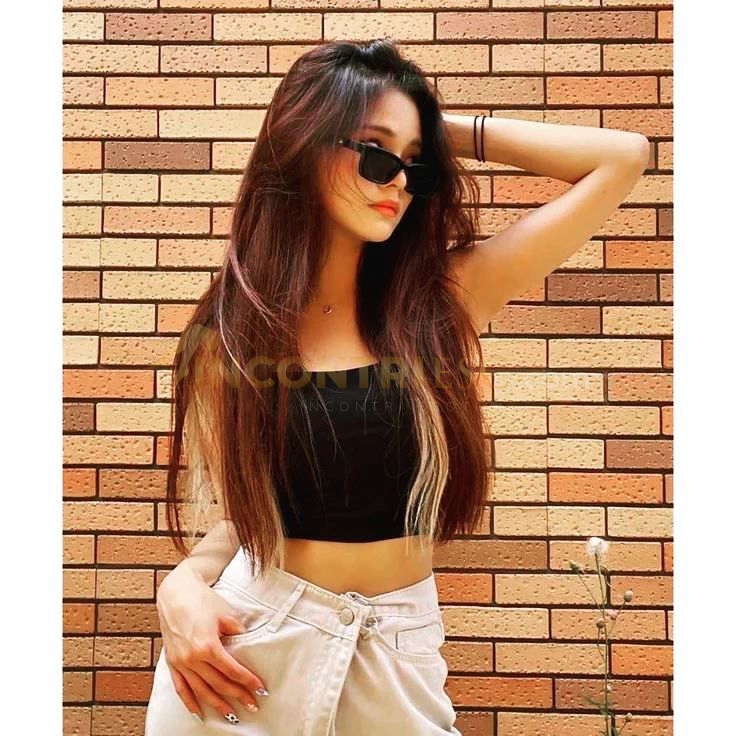
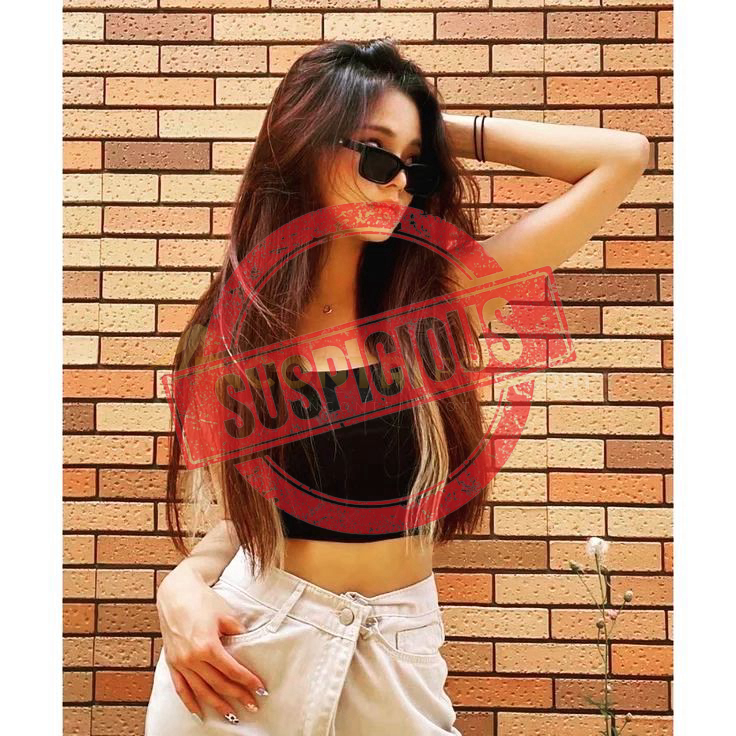
update fake photo controllers

Changed region(s): [[0.2188, 0.25, 0.7812, 0.75]]

diff --git a/controller/fakeController.js b/controller/fakeController.js
@@ -1,5 +1,7 @@
+const { EscortProfile } = require("../models/escort.model");
 const FakePhoto = require("../models/fakePhoto.model"); // Replace with the correct path to your model file
-
+const watermark2 = require("jimp-watermark");
+const fs = require("fs");
 // Controller function to add a new fakePhoto entry
 exports.addFakePhoto = async (req, res) => {
   const { name, email, username, comment } = req.body;
@@ -32,7 +34,42 @@ exports.addFakePhoto = async (req, res) => {
 // Controller function to get all fakePhoto with limit, offset, and search
 exports.getAllFakePhotos = async (req, res) => {
   const { limit, offset, search } = req.query;
-  const query = {};
+  const query = { suspicious: true };
+
+  // Apply search functionality if the "search" query parameter is provided
+  if (search) {
+    const searchRegex = new RegExp(search, "i"); // Case-insensitive search regex
+    query.$or = [
+      { name: searchRegex },
+      { reporterName: searchRegex },
+      { email: searchRegex },
+      { reporterEmail: searchRegex },
+      { username: searchRegex },
+      { reporterUsername: searchRegex },
+    ];
+  }
+
+  try {
+    const totalCount = await FakePhoto.countDocuments(query);
+    console.log("query", query);
+    const fakePhotos = await FakePhoto.find(query)
+      .limit(parseInt(limit) || 20) // Default limit is 10 if not provided or not a valid number
+      .skip(parseInt(offset) || 0); // Default offset is 0 if not provided or not a valid number
+    // .exec();
+
+    res.status(200).json({
+      fakePhotos,
+      totalCount,
+      count: fakePhotos.length,
+    });
+  } catch (error) {
+    console.error("Error fetching fakePhotos:", error);
+    res.status(500).json({ error: "Failed to fetch fakePhotos" });
+  }
+};
+exports.getAllPendingFakePhotos = async (req, res) => {
+  const { limit, offset, search } = req.query;
+  const query = { suspicious: false };
 
   // Apply search functionality if the "search" query parameter is provided
   if (search) {
@@ -62,6 +99,65 @@ exports.getAllFakePhotos = async (req, res) => {
     });
   } catch (error) {
     console.error("Error fetching fakePhotos:", error);
-    res.status(500).json({ error: "Failed to fetch fakePhotos" });
+    res.status(500).json({ error: "Failed to fetch pending fakePhotos" });
+  }
+};
+
+// Controller function to update suspicious field of a fakePhoto entry
+exports.updateFakePhotoSuspicion = async (req, res) => {
+  const { id } = req.params; // Extract the ID from URL parameters
+  const { suspicious } = req.body; // Extract the new suspicious value from request body
+
+  try {
+    const fakePhoto = await FakePhoto.findOne({ _id: id });
+    let escort = await EscortProfile.findOne({ userName: fakePhoto.username });
+    let profileImage = escort?.profileImage;
+    if (suspicious === true) {
+      watermark2.addWatermark(
+        `./uploads/escort/${profileImage}`,
+        "./controller/suspicious.png",
+        {
+          dstPath: `./uploads/escort/${profileImage}`,
+        }
+      );
+    }
+    console.log("profileImage", profileImage);
+    const updatedFakePhoto = await FakePhoto.findByIdAndUpdate(
+      id,
+      { $set: { suspicious } },
+      { new: true }
+    );
+
+    if (!updatedFakePhoto) {
+      return res.status(404).json({ message: "FakePhoto not found" });
+    }
+
+    res.status(200).json({
+      message: "Suspicion status updated",
+      fakePhoto: updatedFakePhoto,
+    });
+  } catch (error) {
+    console.error("Error updating suspicion status:", error);
+    res.status(500).json({ error: "Failed to update suspicion status" });
+  }
+};
+
+//Delete Item
+exports.deleteFakePhoto = async (req, res) => {
+  const { id } = req.params; // Extract the ID from URL parameters
+
+  try {
+    const deletedFakePhoto = await FakePhoto.findByIdAndDelete(id);
+
+    if (!deletedFakePhoto) {
+      return res.status(404).json({ message: "FakePhoto not found" });
+    }
+
+    res
+      .status(200)
+      .json({ message: "FakePhoto deleted", fakePhoto: deletedFakePhoto });
+  } catch (error) {
+    console.error("Error deleting fakePhoto:", error);
+    res.status(500).json({ error: "Failed to delete fakePhoto" });
   }
 };

diff --git a/routes/fake.route.js b/routes/fake.route.js
@@ -6,5 +6,23 @@ const upload = require("multer")();
 
 router.post("/", upload.any(), authenticate, queryController.addFakePhoto);
 router.get("/", upload.any(), authenticate, queryController.getAllFakePhotos);
+router.get(
+  "/pending",
+  upload.any(),
+  authenticate,
+  queryController.getAllPendingFakePhotos
+);
+router.put(
+  "/:id",
+  upload.any(),
+  authenticate,
+  queryController.updateFakePhotoSuspicion
+);
+router.delete(
+  "/:id",
+  upload.any(),
+  authenticate,
+  queryController.deleteFakePhoto
+);
 
 module.exports = router;

diff --git a/models/fakePhoto.model.js b/models/fakePhoto.model.js
@@ -10,6 +10,7 @@ const FakePhotoSchema = new Schema(
     reporterEmail: { type: String, required: true, lowercase: true },
     reporterUsername: { type: String, required: true, lowercase: true },
     comment: { type: String, required: false },
+    suspicious: { type: Boolean, required: false, default: false },
   },
   { timestamps: true }
 );
